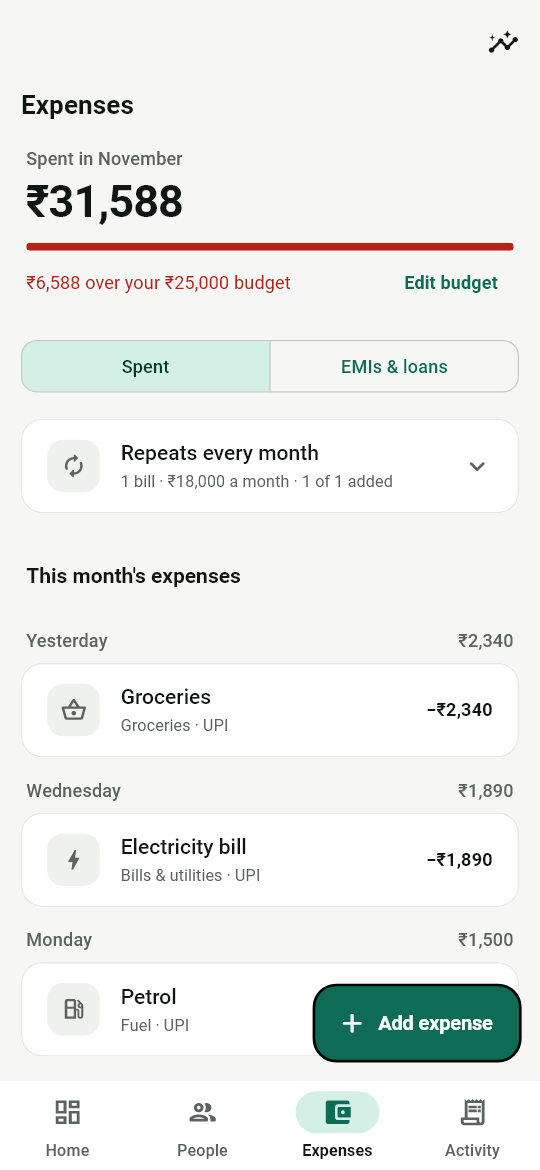
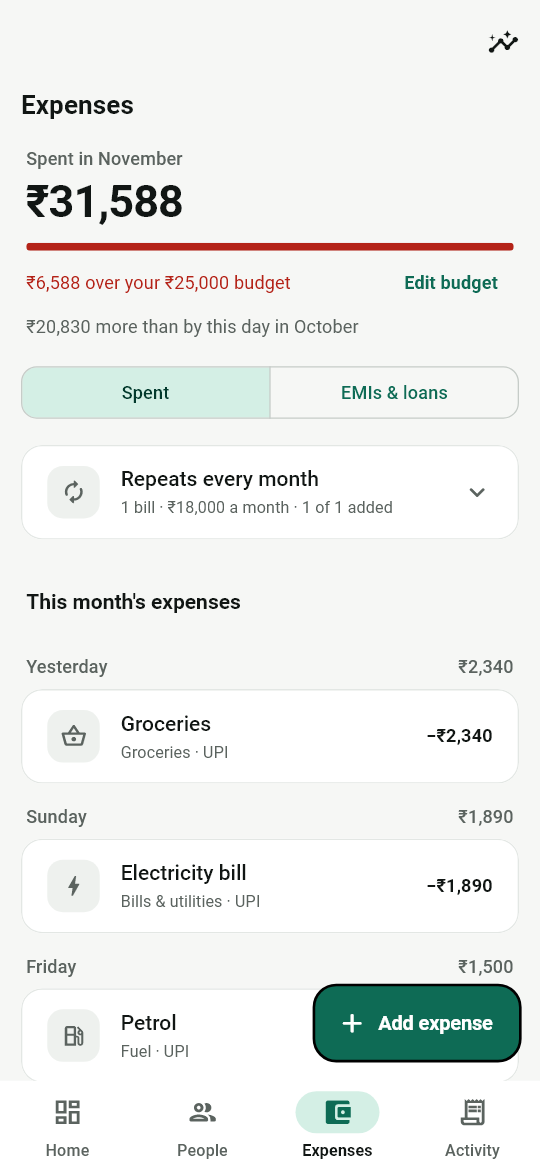
feat: compare this month's spending with last month by the same day
The Expenses header now says e.g. "₹2,300 more than by this day in October" (all of last month on the last day). Pure SpendingPace in domain with unit tests; neutral colour, masked when amounts are hidden.

diff --git a/test/unit/spending_pace_test.dart b/test/unit/spending_pace_test.dart
@@ -1,0 +1,62 @@
+import 'package:flutter_test/flutter_test.dart';
+import 'package:duemate/data/database/tables.dart';
+import 'package:duemate/domain/entities/personal_expense.dart';
+import 'package:duemate/domain/spending_pace.dart';
+
+PersonalExpense _x(double amount, DateTime date) => PersonalExpense(
+      id: '$amount$date',
+      title: 'x',
+      amount: amount,
+      category: ExpenseCategory.food,
+      expenseDate: date,
+      paymentMethod: PaymentMethod.upi,
+      createdAt: date,
+      updatedAt: date,
+    );
+
+void main() {
+  test('compares this month so far with last month by the same day', () {
+    final pace = SpendingPace.of([
+      _x(500, DateTime(2026, 11, 1)),
+      _x(700, DateTime(2026, 11, 18, 21)), // later today counts
+      _x(9999, DateTime(2026, 11, 19)), // dated ahead: not yet
+      _x(300, DateTime(2026, 10, 2)),
+      _x(400, DateTime(2026, 10, 18, 23, 59)),
+      _x(8000, DateTime(2026, 10, 19)), // after the same day last month
+      _x(1000, DateTime(2026, 9, 30)), // two months ago
+    ], DateTime(2026, 11, 18, 10));
+
+    expect(pace.thisMonth, 1200);
+    expect(pace.lastMonth, 700);
+    expect(pace.difference, 500);
+    expect(pace.hasComparison, isTrue);
+    expect(pace.wholeLastMonth, isFalse);
+    expect(pace.lastMonthStart, DateTime(2026, 10));
+  });
+
+  test('on the last day of a month, compares with all of last month', () {
+    final pace = SpendingPace.of([
+      _x(100, DateTime(2026, 3, 31)),
+      _x(200, DateTime(2026, 4, 30)),
+    ], DateTime(2026, 4, 30));
+    expect(pace.lastMonth, 100);
+    expect(pace.wholeLastMonth, isTrue);
+  });
+
+  test('when last month is shorter, its last day is the limit', () {
+    final pace = SpendingPace.of([_x(100, DateTime(2026, 2, 28))], DateTime(2026, 3, 30));
+    expect(pace.lastMonth, 100);
+    expect(pace.wholeLastMonth, isTrue);
+  });
+
+  test('January compares with December of the year before', () {
+    final pace = SpendingPace.of([_x(250, DateTime(2025, 12, 3))], DateTime(2026, 1, 5));
+    expect(pace.lastMonth, 250);
+    expect(pace.lastMonthStart, DateTime(2025, 12));
+  });
+
+  test('no comparison when last month had nothing by this day', () {
+    final pace = SpendingPace.of([_x(100, DateTime(2026, 11, 2))], DateTime(2026, 11, 18));
+    expect(pace.hasComparison, isFalse);
+  });
+}

diff --git a/lib/features/expenses/presentation/screens/expenses_screen.dart b/lib/features/expenses/presentation/screens/expenses_screen.dart
@@ -1,15 +1,18 @@
 import 'package:flutter/material.dart';
 import 'package:flutter_riverpod/flutter_riverpod.dart';
+import 'package:intl/intl.dart';
 import 'package:go_router/go_router.dart';
 import 'package:duemate/core/constants/app_constants.dart';
 import 'package:duemate/core/constants/expense_category_x.dart';
 import 'package:duemate/core/theme/app_theme.dart';
 import 'package:duemate/core/utils/date_formatter.dart';
+import 'package:duemate/core/utils/display_money.dart';
 import 'package:duemate/core/widgets/empty_state_widget.dart';
 import 'package:duemate/core/widgets/ui_kit.dart';
 import 'package:duemate/data/providers/app_providers.dart';
 import 'package:duemate/domain/emi_installments.dart';
 import 'package:duemate/domain/entities/personal_expense.dart';
+import 'package:duemate/domain/spending_pace.dart';
 import 'package:duemate/features/emis/presentation/screens/add_edit_emi_screen.dart';
 import 'package:duemate/features/emis/presentation/widgets/emi_card.dart';
 import 'package:duemate/features/expenses/presentation/widgets/add_edit_expense_sheet.dart';
@@ -262,6 +265,17 @@ class _MonthHeader extends ConsumerWidget {
 
   const _MonthHeader({required this.symbol, required this.onEditBudget});
 
+  /// "₹2,300 more than by this day in October"; null with nothing to compare.
+  /// Neutral colour: spending more or less is information, not good or bad.
+  static String? _paceLine(SpendingPace pace, DisplayMoney money) {
+    if (!pace.hasComparison) return null;
+    final month = DateFormat.MMMM().format(pace.lastMonthStart);
+    final when = pace.wholeLastMonth ? 'in $month' : 'by this day in $month';
+    final diff = pace.difference;
+    if (diff.abs() < 1) return 'About the same as $when';
+    return '${money(diff.abs())} ${diff > 0 ? 'more' : 'less'} than $when';
+  }
+
   @override
   Widget build(BuildContext context, WidgetRef ref) {
     final theme = Theme.of(context);
@@ -308,6 +322,8 @@ class _MonthHeader extends ConsumerWidget {
               TextButton(onPressed: onEditBudget, child: const Text('Edit budget')),
             ],
           ),
+          if (_paceLine(ref.watch(spendingPaceProvider), money) case final line?)
+            Text(line, style: theme.textTheme.bodyMedium?.copyWith(color: cs.onSurfaceVariant)),
         ],
       ),
     );

diff --git a/lib/domain/spending_pace.dart b/lib/domain/spending_pace.dart
@@ -1,0 +1,59 @@
+import 'entities/personal_expense.dart';
+
+/// This month's spending so far next to last month's by the same day, so
+/// the comparison is fair early in the month.
+class SpendingPace {
+  /// Spent from the 1st of this month to the end of today.
+  final double thisMonth;
+
+  /// Spent from the 1st of last month to the end of the same day (the last
+  /// day of last month when today is the last day of this one, or when last
+  /// month is shorter).
+  final double lastMonth;
+
+  /// The 1st of last month, for its name.
+  final DateTime lastMonthStart;
+
+  /// True when [lastMonth] covers the whole of last month.
+  final bool wholeLastMonth;
+
+  const SpendingPace({
+    required this.thisMonth,
+    required this.lastMonth,
+    required this.lastMonthStart,
+    required this.wholeLastMonth,
+  });
+
+  /// Positive when more was spent this month.
+  double get difference => thisMonth - lastMonth;
+
+  /// Nothing to compare when last month had nothing by this day.
+  bool get hasComparison => lastMonth > 0;
+
+  static SpendingPace of(Iterable<PersonalExpense> expenses, DateTime now) {
+    final thisStart = DateTime(now.year, now.month);
+    final thisEnd = DateTime(now.year, now.month, now.day + 1);
+    final lastStart = DateTime(now.year, now.month - 1);
+    final lastDays = DateTime(now.year, now.month, 0).day;
+    final isLastDay = now.day == DateTime(now.year, now.month + 1, 0).day;
+    final lastDay = isLastDay || now.day >= lastDays ? lastDays : now.day;
+    final lastEnd = DateTime(lastStart.year, lastStart.month, lastDay + 1);
+
+    var thisMonth = 0.0, lastMonth = 0.0;
+    for (final e in expenses) {
+      final d = e.expenseDate;
+      if (d.isBefore(lastStart) || !d.isBefore(thisEnd)) continue;
+      if (!d.isBefore(thisStart)) {
+        thisMonth += e.amount;
+      } else if (d.isBefore(lastEnd)) {
+        lastMonth += e.amount;
+      }
+    }
+    return SpendingPace(
+      thisMonth: thisMonth,
+      lastMonth: lastMonth,
+      lastMonthStart: lastStart,
+      wholeLastMonth: lastDay == lastDays,
+    );
+  }
+}

diff --git a/lib/data/providers/expense_providers.dart b/lib/data/providers/expense_providers.dart
@@ -4,6 +4,7 @@ import 'package:flutter_riverpod/flutter_riverpod.dart';
 import 'package:shared_preferences/shared_preferences.dart';
 import 'package:duemate/domain/entities/personal_expense.dart';
 import 'package:duemate/domain/entities/recurring_expense.dart';
+import 'package:duemate/domain/spending_pace.dart';
 import 'database_providers.dart';
 import 'settings_providers.dart';
 
@@ -21,6 +22,12 @@ final monthlyExpenseTotalProvider = Provider<double>((ref) {
     data: (list) => list.fold(0.0, (sum, item) => sum + item.amount),
     orElse: () => 0.0,
   );
+});
+
+/// This month so far vs last month by the same day (Expenses header).
+final spendingPaceProvider = Provider<SpendingPace>((ref) {
+  final expenses = ref.watch(allExpensesProvider).value ?? const <PersonalExpense>[];
+  return SpendingPace.of(expenses, DateTime.now());
 });
 
 class MonthlyBudgetNotifier extends PrefsNotifier<double> {

diff --git a/test_screens/screens_test.dart b/test_screens/screens_test.dart
@@ -162,6 +162,17 @@ Future<void> _seed(AppDatabase db) async {
   await x('Electricity bill', 1890, ExpenseCategory.utilities, 3);
   await x('Petrol', 1500, ExpenseCategory.fuel, 5);
   await x('Dinner out', 1200, ExpenseCategory.food, 6);
+  // Last month, early on: the Expenses header compares with it.
+  await expenses.createExpense(PersonalExpense(
+    id: 'x_last',
+    title: 'Groceries',
+    amount: 4100,
+    category: ExpenseCategory.groceries,
+    expenseDate: DateTime(now.year, now.month - 1, 1),
+    paymentMethod: PaymentMethod.upi,
+    createdAt: now,
+    updatedAt: now,
+  ));
   // Rent repeats every month: shows under "Repeats every month".
   final rentDay = DateTime(now.year, now.month, (now.day - 9).clamp(1, 28));
   final rent = RecurringExpense(

diff --git a/docs/SCREENS.md b/docs/SCREENS.md
@@ -78,7 +78,9 @@ so it's never red). Repayments pay off the oldest loans first, so only the unpai
   <img src="screenshots/04_expenses_dark.png" width="260" alt="Expenses, dark" />
 </p>
 
-This month's spending against the budget (*left*, *only … left* from 85%, *over* in red), then
+This month's spending against the budget (*left*, *only … left* from 85%, *over* in red), and how it
+compares with last month by the same day (*₹2,300 more than by this day in October*; on the last
+day of the month, all of last month), shown once last month has something to compare. Then
 **This month's expenses** grouped by day with a daily total; ones added automatically say so
 (*Monthly* for repeats, *Installment 3* for your EMIs). Tap an expense to edit or delete it.
 *Earlier months* and the chart icon open **Spending trends**.

diff --git a/TODO.md b/TODO.md
@@ -57,6 +57,7 @@ What's done, what's known to be missing, and what's next.
 - [ ] **Loan prepayment:** remaining principal vs interest, and a close-early calculator.
 
 ### Spending
+- [x] **Compare with last month:** the Expenses header says how this month's spending so far compares with last month by the same day (`SpendingPace`).
 - [x] **Recurring expenses:** monthly repeats (schema v9), posted on open with catch-up, managed under Expenses › Repeats every month.
 - [x] **Tap a reminder to open its EMI.**
 
